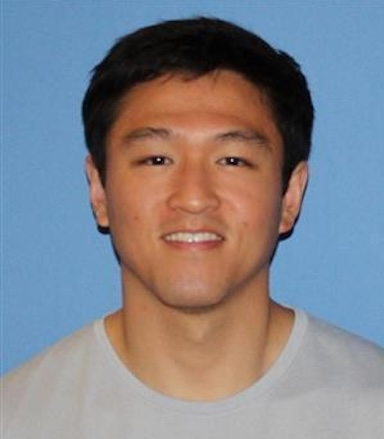
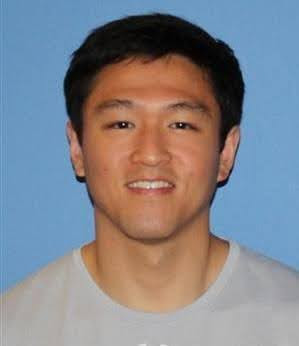
2nd year update

diff --git a/index.html b/index.html
@@ -26,9 +26,10 @@
                   Hi, my name is Xufeng Caesar Dai (<strong>戴旭丰</strong>, Daì Xù Fēng).
                 </p>
                 <p>
-                  I'm a first-year CS PhD student at University of Washington advised by 
-                  <a href="https://www.rajeshpnrao.com/">Rajesh Rao</a>. My work will be at the intersection of 
-                  <strong>Brain-Computer Interface (BCI)</strong> and <strong>AI</strong>. I'm currently trying to figure out what exactly I want to work on...
+                  I'm a 2nd year CS PhD student at the University of Washington advised by 
+                  <a href="https://www.rajeshpnrao.com/">Rajesh Rao</a>. I'm passionate about building
+                  <strong>Brain-Computer Interfaces (BCIs)</strong> to enhance human communication and restore lost connections. 
+                  I'm currently working on <strong>bidirectional BCIs</strong> and <strong>foundation models for neural recordings</strong>.
                 </p>
                 <p>
                   I've been fortunate to work with some wonderful mentors! Before UW, I was a post-bacc RA at Brown University 
@@ -118,6 +119,8 @@
 
 
           <!-- ===== Publications Section ===== -->
+           <div style="display:none">
+
           <table style="width:100%; margin:0 auto; border:0; border-spacing:0; padding:16px;"><tbody>
             <tr>
               <td>
@@ -211,6 +214,7 @@
                 </p>
               </td>
             </tr>
+          </div>
 
           </tbody></table>
           <!-- ===== End Publications Section ===== -->
@@ -221,7 +225,7 @@
               <td style="padding:0px">
                 <br>
                 <p style="text-align:right;font-size:small;">
-                  I used Jon Barron's <a href="https://github.com/jonbarron/jonbarron_website">source code</a> for my page. 
+                  I used this <a href="https://github.com/jonbarron/jonbarron_website">template</a> for my page. 
                 </p>
               </td>
             </tr>
